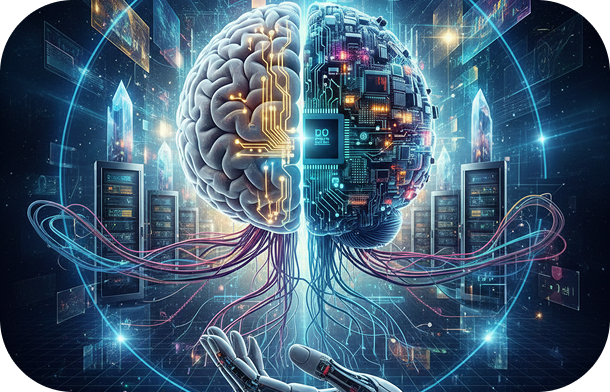
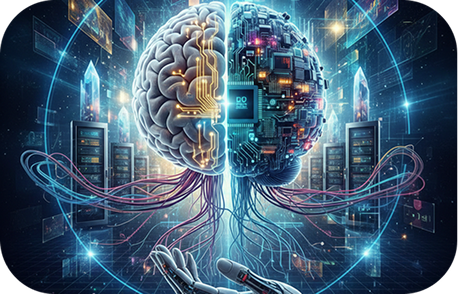
Lower file sizes.

diff --git a/root/templates/root/payment_bridge.html b/root/templates/root/payment_bridge.html
@@ -1,0 +1,29 @@
+<!DOCTYPE html>
+<html lang="fa">
+<head>
+    <meta charset="UTF-8">
+    <title>در حال انتقال...</title>
+    <style>
+        body { display: flex; justify-content: center; align-items: center; height: 100vh; font-family: tahoma; background: #f9f9f9; }
+        .loader { border: 5px solid #f3f3f3; border-top: 5px solid #3498db; border-radius: 50%; width: 50px; height: 50px; animation: spin 2s linear infinite; }
+        @keyframes spin { 0% { transform: rotate(0deg); } 100% { transform: rotate(360deg); } }
+    </style>
+</head>
+<body>
+    <div style="text-align: center;">
+        <div class="loader" style="margin: 0 auto 20px auto;"></div>
+        <p>پرداخت انجام شد. در حال بازگشت به نرمافزار...</p>
+    </div>
+
+    <script>
+        // آدرس دقیق بکاند خود را اینجا بگذارید
+        const BACKEND_URL = "https://back.axonnegar.ir/payment/verify/bitpay/";
+
+        // دریافت پارامترهای GET که بیتپی فرستاده (trans_id و id_get)
+        const queryString = window.location.search;
+
+        // انتقال کاربر به بکاند به همراه پارامترها
+        window.location.href = BACKEND_URL + queryString;
+    </script>
+</body>
+</html>

diff --git a/assets/css/main.css b/assets/css/main.css
@@ -6544,7 +6544,7 @@ li.has-dropdown1 span {
   animation-duration: 1s;
   animation-fill-mode: forwards;
   border-bottom: 1px solid rgba(255, 255, 255, 0.452);
-  background-image: url(../img/bg/hero6-bg.png);
+  background-image: url(../img/bg/hero6-bg.jpg);
   background-repeat: no-repeat;
   background-size: cover;
   background-position: center center;
@@ -10380,7 +10380,7 @@ body.body2 {
   right: 0;
   height: 100%;
   width: 100%;
-  background-image: url(../img/bg/hero6-bg.png);
+  background-image: url(../img/bg/hero6-bg.jpg);
   background-position: center center;
   background-size: cover;
   background-repeat: no-repeat;

diff --git a/staticfiles/css/main.css b/staticfiles/css/main.css
@@ -6544,7 +6544,7 @@ li.has-dropdown1 span {
   animation-duration: 1s;
   animation-fill-mode: forwards;
   border-bottom: 1px solid rgba(255, 255, 255, 0.452);
-  background-image: url(../img/bg/hero6-bg.png);
+  background-image: url(../img/bg/hero6-bg.jpg);
   background-repeat: no-repeat;
   background-size: cover;
   background-position: center center;
@@ -10380,7 +10380,7 @@ body.body2 {
   right: 0;
   height: 100%;
   width: 100%;
-  background-image: url(../img/bg/hero6-bg.png);
+  background-image: url(../img/bg/hero6-bg.jpg);
   background-position: center center;
   background-size: cover;
   background-repeat: no-repeat;

diff --git a/root/templates/root/about.html b/root/templates/root/about.html
@@ -20,7 +20,7 @@
        </p>
        <div class="space30"></div>
        <div class="hero-btns">
-        <a class="theme-btn3" href="#">
+        <a class="theme-btn3" target="_blank" href="https://app.axonnegar.ir">
          شروع به استفاده
         </a>
        </div>
@@ -108,7 +108,7 @@
         <li><span><i class="fa-solid fa-check"></i></span>و ...</li>
        </ul>
        <div class="space30"></div>
-       <a class="theme-btn2" href="#">
+       <a class="theme-btn2" target="_blank" href="https://app.axonnegar.ir">
         شروع رایگان
        </a>
       </div>

diff --git a/templates/includes/ai-innovation.html b/templates/includes/ai-innovation.html
@@ -19,7 +19,7 @@
             حالتهای مختلف، تنظیمات دقیق و ظاهر پویا، تجربهای منحصربهفرد برای هر کاربر ایجاد میکنند.
           </p>
           <div class="space30"></div>
-          <a class="theme-btn3" href="#">
+          <a class="theme-btn3" target="_blank" href="https://app.axonnegar.ir">
             شروع رایگان
           </a>
         </div>

diff --git a/root/templates/root/index.html b/root/templates/root/index.html
@@ -31,7 +31,7 @@
               <div class="space30"></div>
 
               <div class="buttons" data-aos="fade-left" data-aos-duration="900">
-                <a class="theme-btn8" href="#">
+                <a class="theme-btn8" target="_blank" href="https://app.axonnegar.ir">
                   <span class="tb8">
                     نسخه وب اپلیکیشن رو تست کن
                     <span class="arrow">

diff --git a/root/templates/root/plans.html b/root/templates/root/plans.html
@@ -365,7 +365,7 @@
                         {% endfor %}
                     </ul>
 
-                    <a href="#" class="select-plan-btn">
+                    <a href="https://app.axonnegar.ir" target="_blank" class="select-plan-btn">
                         {% if plan.price == 0 %}
                             شروع رایگان
                         {% else %}

diff --git a/templates/includes/desktop_header.html b/templates/includes/desktop_header.html
@@ -75,7 +75,7 @@
          </ul>
         </div>
         <div class="header4-buttons">
-         <a class="theme-btn8" href="">
+         <a class="theme-btn8" target="_blank" href="https://app.axonnegar.ir">
           <span class="tb8">
            همین حالا شروع کنید
            <span class="arrow">

diff --git a/root/templates/root/download.html b/root/templates/root/download.html
@@ -133,7 +133,7 @@
           <div class="space10">
           </div>
           <div class="buttons">
-           <a href="#">
+           <a href="https://app.axonnegar.ir" target="_blank" >
             <img alt="" src="{% static 'img/icons/web-application-download.png' %}"/>
            </a>
           </div>

diff --git a/templates/includes/mobile_header.html b/templates/includes/mobile_header.html
@@ -86,7 +86,7 @@
         </ul>
 
         <!-- CTA Button (Matches Desktop) -->
-        <a class="sidebar1-btn" href="">
+        <a class="sidebar1-btn" target="_blank" href="https://app.axonnegar.ir">
             <span>
                 همین حالا شروع کنید
             </span>

diff --git a/templates/base.html b/templates/base.html
@@ -11,7 +11,7 @@
   <body class="body">
 
     {% include 'includes/scroll_progress.html' %}
-    {% include 'includes/preloader.html' %}
+{#    {% include 'includes/preloader.html' %}#}
     {% include 'includes/desktop_header.html' %}
     {% include 'includes/mobile_header.html' %}
 

diff --git a/templates/includes/footer.html b/templates/includes/footer.html
@@ -34,7 +34,7 @@
         </li>
 
         <li>
-         <a href="#">
+         <a href="https://app.axonnegar.ir" target="_blank" >
           وب اپلیکیشن
          </a>
         </li>
